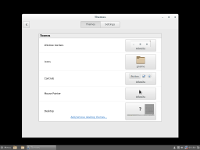
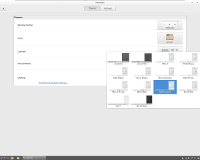
Update to Cinnamon 3.2.

diff --git a/index.html b/index.html
@@ -33,7 +33,7 @@ type='text/css'>
            <p>The scripts are hosted in a <a
              href="https://github.com/CinnamonSlackBuilds/csb">Git repo</a> so feel
            free to test and offer suggestions, improvements, patches, etc.
-	   Here are some obligatory screenshots of Cinnamon 3.0 with its default
+	   Here are some obligatory screenshots of Cinnamon 3.2 with its default
            theme and background running on Slackware64-14.2:</p>
            <div id="screenshots">
              <a href="images/csb1.png"><img class="image"
